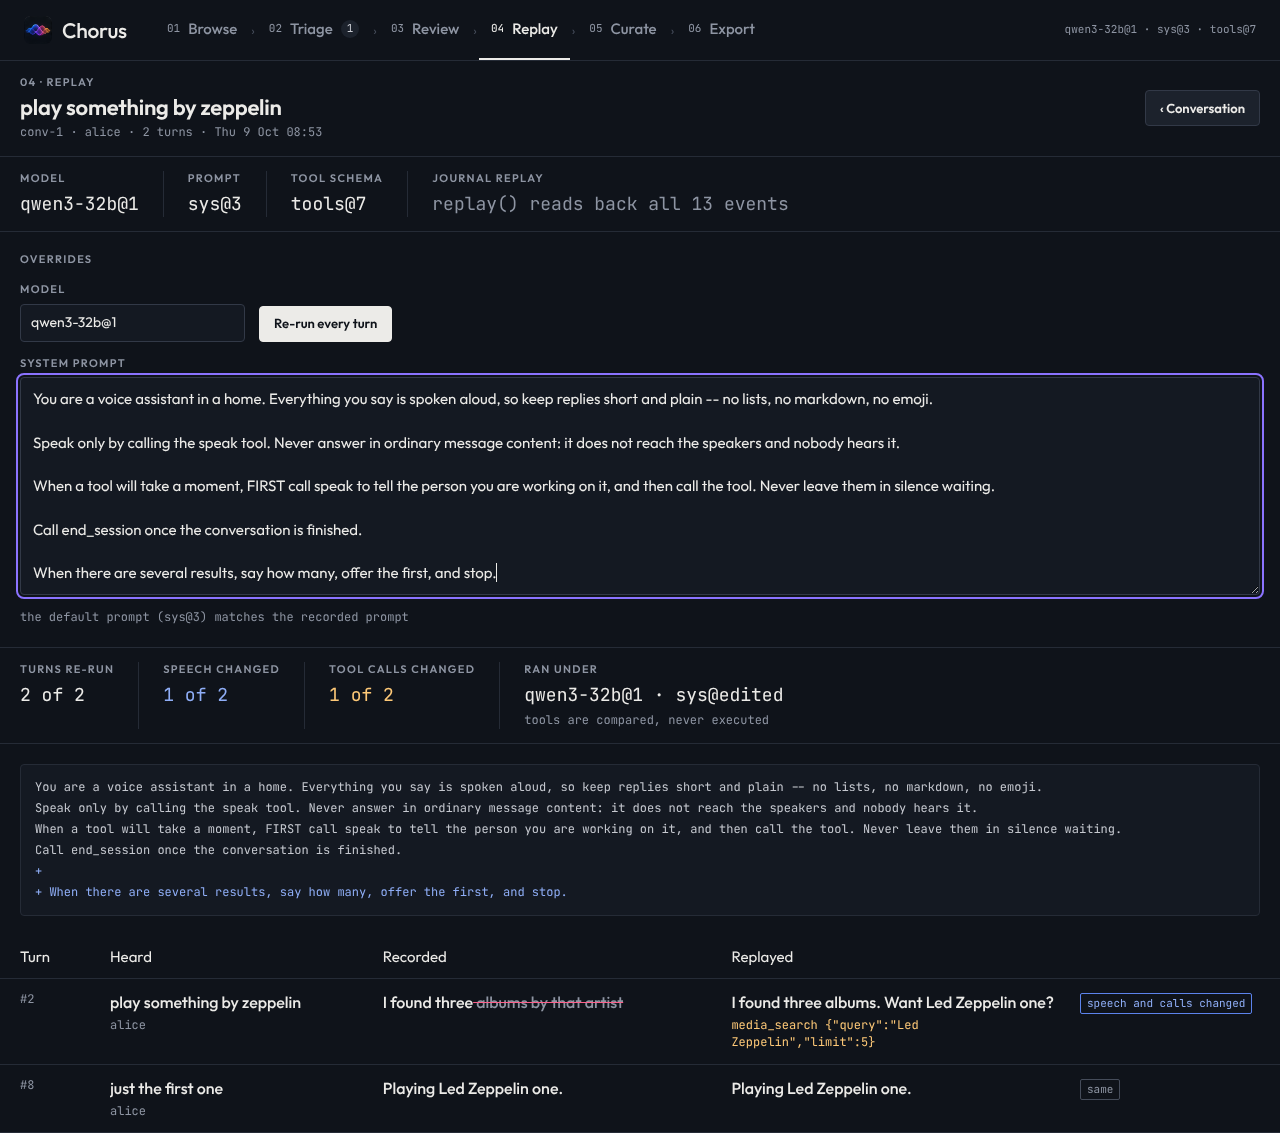
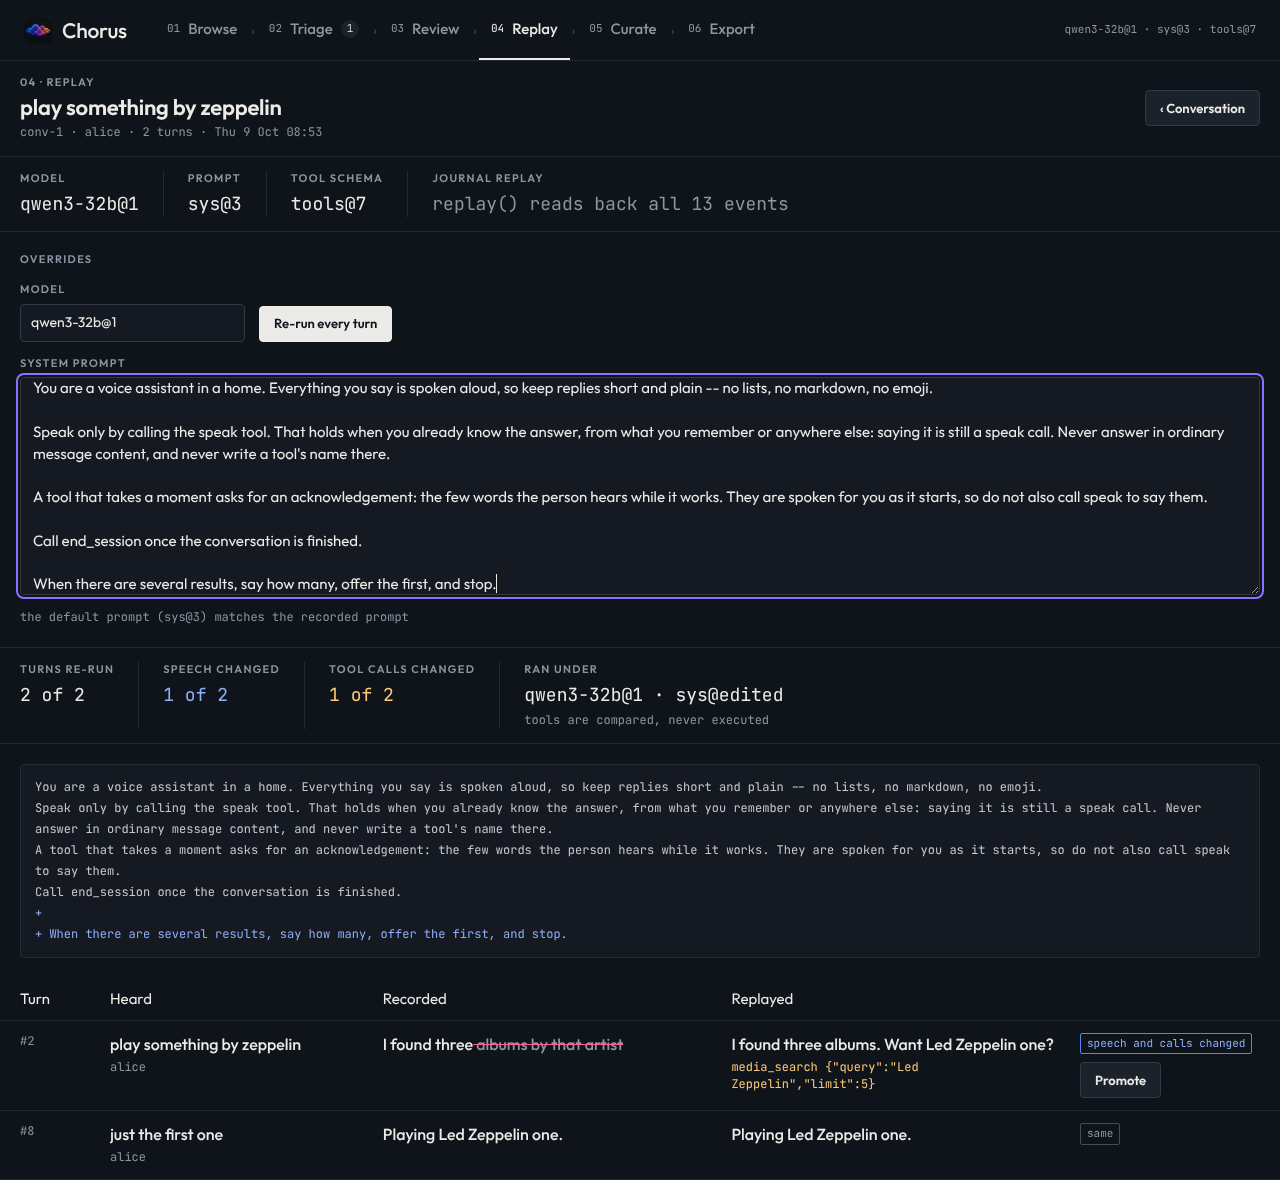
docs(reviewui): labels, promotions and the door's audit
ADR-0052 records where labels and promoted takes live and how they become
pairs; the Review UI guide and its screenshots show the new rows, the
labels, Curate's reviewer pairs and a promoted re-run.

Claude-Session: https://claude.ai/code/session_013H4bSj55jsPugHvXZ5tBSz

diff --git a/docs/reviewui/README.md b/docs/reviewui/README.md
@@ -124,6 +124,27 @@ audio is its own row, saying how long the person waited.
 
 ![Conversation, first audio](conversation-first-audio.png)
 
+The log also shows what the model was told and what the house vouched for.
+A `memory_recalled` row lists each memory the turn was told, whose it is
+when someone shared it, and the earlier conversations it was told of. A
+held call's `confirmation_requested` row names the call and its nonce, and
+`confirmation_given` says which utterance the nonce was redeemed after: the
+"did they actually say yes" audit (SPEC §6, ADR-0038). The summary written
+when the conversation closed is its last row. Browse measures a
+conversation to its close, not to the summary.
+
+![The door waits for a yes: recall, nonce and summary](e2e/journey-door-audit.png)
+
+Under each utterance sit SPEC §9.2's labels for the turn it opens:
+*transcript wrong*, *misunderstood intent*, *wrong tool / args*, *should
+have spoken*, *spoke when it shouldn't*, *too slow*, *wrong person*, *good —
+exemplar*, and a free-text "what it should have done". A turn with any fault
+and a note becomes a pair in [Curate](#curate), the recorded take rejected
+and the note chosen, so write the note as the reply you wanted. An exemplar
+is a positive, not a pair (ADR-0052).
+
+![Labelling a turn](e2e/journey-labels.png)
+
 A timer going off, or someone asking for something to be said in another
 room, opens a session with no wake word (ADR-0045). Browse lists it as an
 *announcement*, named by what it said and whom it was for. Its log says why
@@ -162,7 +183,7 @@ stopped speaking as `wait_ms`.
 
 ![Review](review.png)
 
-One harvested barge-in at a time (`?pair=` picks one), laid out on a single
+One harvested barge-in at a time (`?pair=` picks one; a reviewer's own pairs have no cut to hear, so Review skips them), laid out on a single
 time axis: the assistant's turn with its unheard tail hatched, the mic track
 with the interruption and the correction, the answering turn, and the cut.
 The cut is the device's own report of the frame its DAC stopped on
@@ -171,7 +192,9 @@ rejected clip plays only up to it. Offsets come from clip lengths and the
 recorded barge-in position rather than wall clocks.
 
 The pair flow from [Curate](#curate) sits beside the timeline, so a reviewer
-can judge the pair where they heard it.
+can judge the pair where they heard it. What the cut turn was told it
+remembers is listed under the inspector: a cut is judged against what the
+model knew.
 
 ![Review, nothing to review](review-empty.png)
 
@@ -189,7 +212,16 @@ The result sets each turn's recorded speech and tool calls beside the
 re-run's and says what changed. It is safe to point at the live model: a
 turn is the system prompt plus one transcript, tool results never feed back
 in, and so a re-run compares the calls the model *would* make without
-executing any of them. A whole re-run is bounded at three minutes.
+executing any of them. A whole re-run is bounded at three minutes. Each
+turn also lists what it was told it remembers, which the re-run is told too.
+
+A turn whose re-run changed can be promoted. The re-run's take becomes the
+chosen side of a pair whose rejected side is what the turn recorded, and it
+lands in Curate accepted, since promoting is the verdict. The take, the
+calls it would make, the versions it ran under and the edited prompt itself
+are stored, because the journal never held them (ADR-0052).
+
+![Replay, a re-run promoted](e2e/journey-replay-promoted.png)
 
 ![Replay without a model](replay-no-model.png)
 
@@ -208,8 +240,17 @@ ADR-0026). Accepting it unchanged is the one mistake the flow exists to
 block, so the reviewer meets a guard rather than an empty editor. Accepting
 anyway is allowed and marks the pair unfixed, which Export holds back.
 
+Pairs come from three places, named on each row: `barge-in`, harvested from
+the log; `annotation`, a turn labelled with a fault and what it should have
+done; and `replay`, a promoted re-run. A reviewer's pair shows what made it
+under its chosen side. Changing an annotation's note asks for a new
+verdict, since the old one judged a different chosen side.
+
+![Curate, a labelled turn's pair](e2e/journey-curate-annotation.png)
+
 Verdicts are rows in the curation table, revisable where the journal is
-append-only; unreviewed is the absence of a row (ADR-0034).
+append-only; unreviewed is the absence of a row (ADR-0034). Labels and
+promoted takes are rows beside them (ADR-0052).
 
 ### Export
 
@@ -222,7 +263,10 @@ holds back (unreviewed, still being edited, discarded, unfixed, unattributed)
 and previews the first rows exactly as `/export/dpo.jsonl` writes them
 (`harvest.Export`). This is the only curated export: `task harvest` writes
 the same shape but raw, every candidate with `meta.curated=false` and no
-chosen side, which a DPO loader cannot train on.
+chosen side, which a DPO loader cannot train on. An annotation's row carries
+its labels in `meta.labels`; a replay's carries the re-run's configuration
+and calls in `meta.chosen_versions` and `meta.chosen_calls`, and is
+attributed only when both sides are.
 
 ## The UI kit
 
@@ -274,7 +318,10 @@ reviewer through a whole day, start to finish:
 - Review walks every cut in turn;
 - every Triage signal opens where it happened;
 - Browse follows a person across satellites and walks back through the days;
-- the oven timer goes off in an empty kitchen, and is shown set where it was.
+- the oven timer goes off in an empty kitchen, and is shown set where it was;
+- the front door waits for Teagan's yes, and the log shows the whole audit;
+- a turn is labelled, its note becomes a pair, and the pair ships with its labels;
+- a re-run is promoted, lands accepted, and ships saying which prompt wrote it.
 
 ![Journey: Browse today](e2e/journey-browse-today.png)
 ![Journey: editing the chosen side](e2e/journey-review-editing.png)

diff --git a/docs/adr/0052-labels-and-promoted-re-runs-live-beside-the-journal-and-make-pairs-on-read.md b/docs/adr/0052-labels-and-promoted-re-runs-live-beside-the-journal-and-make-pairs-on-read.md
@@ -1,0 +1,56 @@
+# 0052. Labels and promoted re-runs live beside the journal, and make pairs on read
+
+- **Status:** accepted
+- **Source:** SPEC §8, §9.2 · ADR-0026, ADR-0034
+
+SPEC §9.2 asks for eight labels, a free-text "what it should have done",
+and edit-and-replay, but until now the only judgment a reviewer could record
+was a verdict on a harvested barge-in. Labels and promoted re-runs are a
+person's revisable annotations of the log, so ADR-0034's reasoning puts them
+where it put verdicts: in `internal/curation`, in their own upserted tables
+beside the journal, keyed by the turn's utterance seq, which is how the
+harvester and Replay already name a turn.
+
+```go
+import "github.com/teagan42/chorus/internal/curation"
+
+// A turn with a fault and what it should have done is a pair; an exemplar is not.
+func makesAPair(a curation.Annotation) bool { return a.Faulted() }
+```
+
+**An annotation's pair is derived.** A turn labelled with any fault (every
+label but *good — exemplar*) and given a note becomes a pair with source
+`annotation`: the recorded take rejected, the note chosen. Nothing stores
+the pair. Curate cuts it from the turn on every read (`harvest.Turn.Pair`),
+as ADR-0026 does for barge-ins, so the rejected side can never drift from
+the log. Changing the note, or taking the last fault off, deletes the
+pair's verdict: the reviewer judged a chosen side that no longer exists.
+
+**A promoted re-run is stored whole.** The journal never held a re-run's
+take, so `curation_promotions` keeps its speech, the calls it would make,
+the versions it ran under and the edited system prompt itself. The pair
+(source `replay`) is still cut from the turn on read; only its chosen side
+comes from the table. The versions are the server's, recomputed from the
+model and prompt the page sends back, not the page's word. Promoting is the
+verdict, so the pair lands accepted, and undo in Curate returns it to
+unreviewed.
+
+The export carries `meta.labels` on an annotation's row, and
+`meta.chosen_versions` and `meta.chosen_calls` on a replay's, so a trainer
+can filter on what made a pair and attribute both sides of it.
+
+## Alternatives rejected
+
+- **Store annotation pairs as rows.** A copy of the rejected turn would go
+  stale if the log were ever re-read differently, and would make the
+  annotation and its pair two things to keep in step.
+- **Store every re-run.** Most re-runs are exploration. Only the take a
+  reviewer chose is a fact about the dataset; the rest can be asked again.
+
+## Forecloses
+
+One annotation and one promotion per turn: a second promotion replaces the
+first, and there is no history of either (the same limit ADR-0034 accepted
+for verdicts). A chosen side that is a tool call rather than speech exports
+its calls in meta, not in the chosen message, until the export grows a
+tool-call message shape.

diff --git a/docs/adr/README.md b/docs/adr/README.md
@@ -59,6 +59,7 @@ decision rather than by clause: facets of one choice share one record.
 | [0048](0048-smart-turn-is-timed-by-the-clock-not-the-audio.md) | Refines 0036: Smart Turn's verdict is timed by the clock, so audio arriving in a burst after a radio stall waits for it, up to the hold | §3.3.2, §4.5 |
 | [0049](0049-a-voice-that-matched-nobody-is-a-guest-and-the-voice-the-gate-refused-is-not-a-turn.md) | Refines 0040 and 0004: a voice judged to be nobody is a guest's turn, told nothing; the voice the gate refused while speech played is not a turn | §4.3, §5 |
 | [0050](0050-the-satellite-says-where-it-is-what-it-heard-and-who-is-in-the-room.md) | Each turn is told the satellite's room, the second mic channel is kept beside the first, and the room's presence is journalled to the device log | §3.3.1, §5, §8, §9.3 |
+| [0052](0052-labels-and-promoted-re-runs-live-beside-the-journal-and-make-pairs-on-read.md) | Refines 0034: SPEC §9.2's labels and promoted re-runs live beside the journal; a labelled turn and a promoted take become pairs on read | §8, §9.2 |
 
 SPEC §15, the decisions that cannot be retrofitted, maps to ADRs 0003, 0005,
 0006, 0007, 0011, and 0022. Those six carry the whole phase-1 risk.
